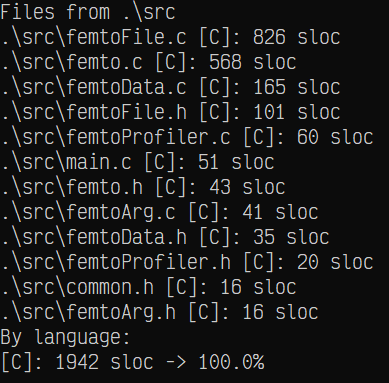
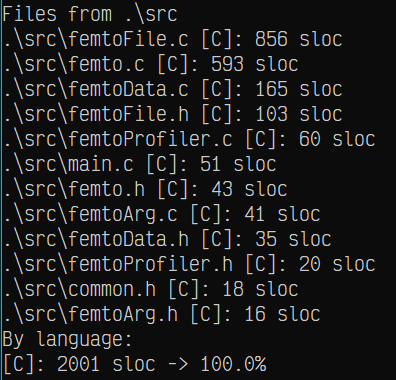
Update sloc

Changed region(s): [[0.0, 0.0, 0.9563, 1.0], [0.4319, 0.9263, 0.6787, 0.9842]]

diff --git a/README.md b/README.md
@@ -10,7 +10,7 @@ It is a bigger more feature-rich version of my other console text editor [atto](
 It is also written in vanilla C + Win32 Console API - it's designed to be used solely in Microsoft Windows.
 It has been compiled with MinGW GCC.
 
-Currently, my other tool [slocWin32](https://github.com/makuke1234/slocWin32) reports 1942 source code lines (excluding whitespace & comments):
+Currently, my other tool [slocWin32](https://github.com/makuke1234/slocWin32) reports 2001 source code lines (excluding whitespace & comments):
 
 ![SLOC](./images/sloc.png)
 
@@ -102,6 +102,7 @@ Currently, my other tool [slocWin32](https://github.com/makuke1234/slocWin32) re
     * [x] Moving cursor to the beggining/end of line with home/end
     * [ ] Line numbers, absolute & relative mode
     * [x] Whole line deletion
+	* [x] Line moving
     * [x] Better cursor movement when using left/right arrows between lines
     * [x] Better cursor movement when using up/down arrows between lines
 * 0.1
